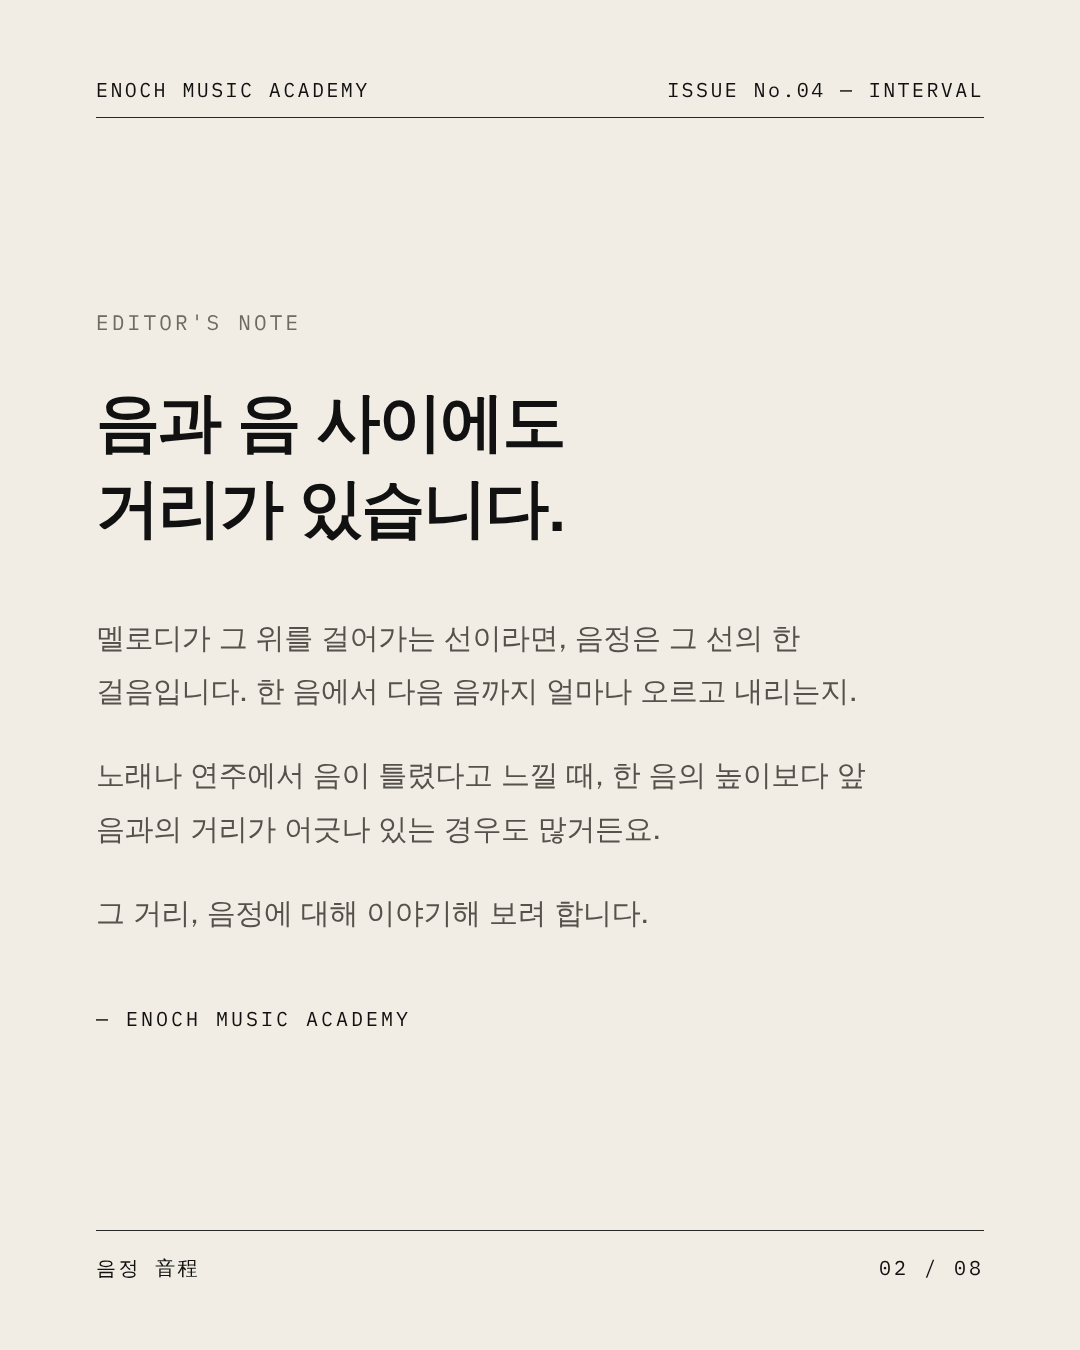
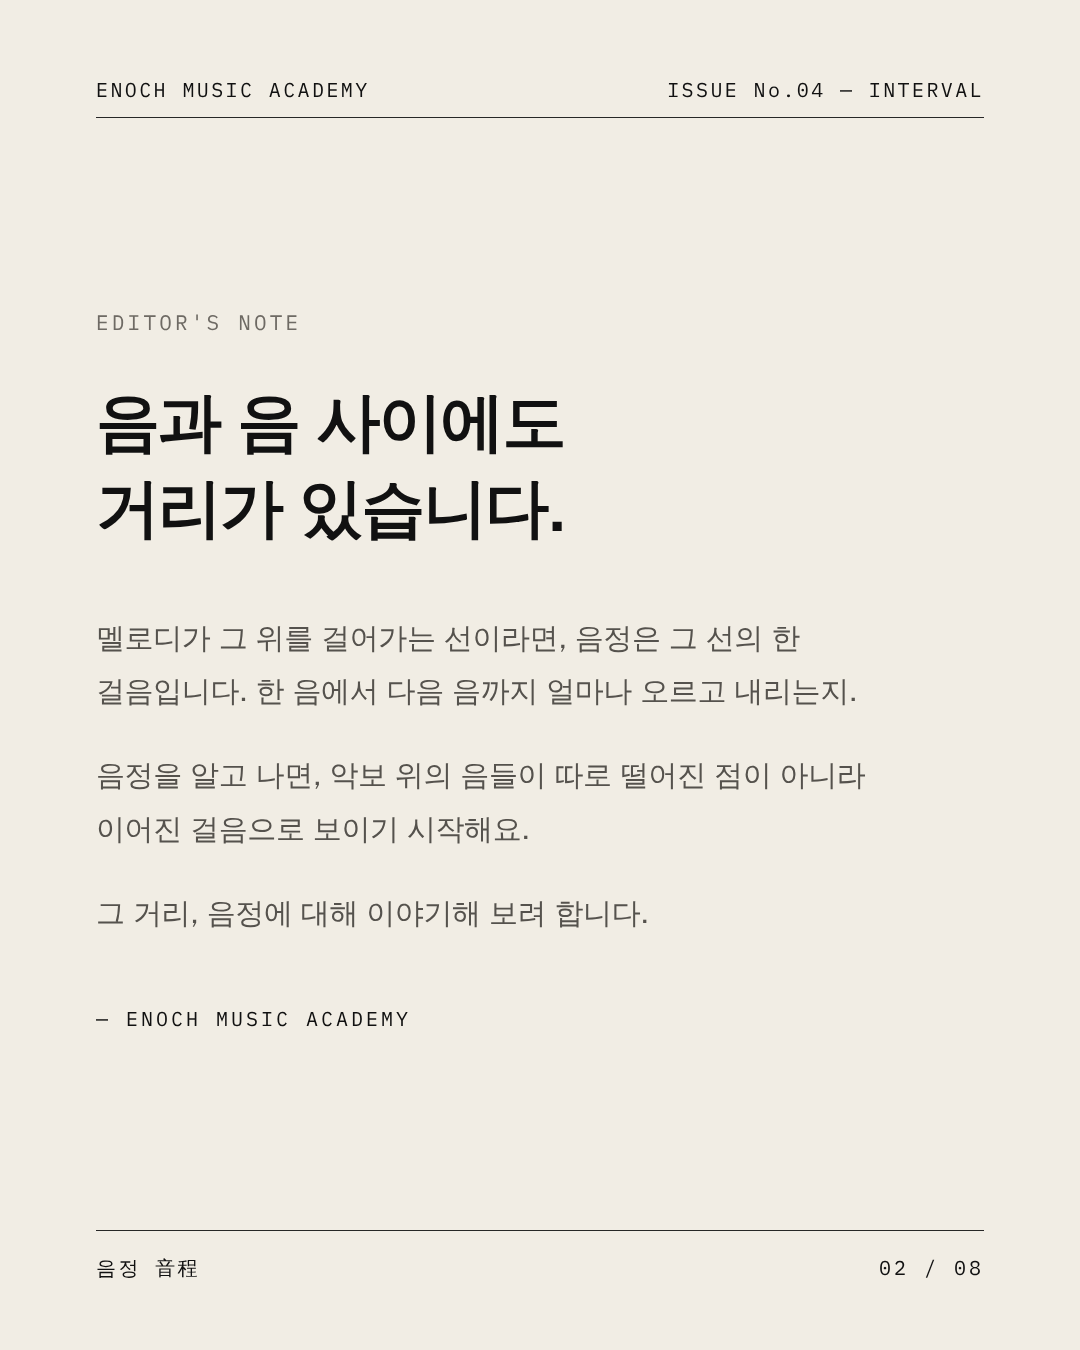
ENOCH ISSUE No.04 음정: 02장 둘째 문단 교체 (캡션도)
Claude-Session: https://claude.ai/code/session_01HGbZvgMeYrbU7mY8bwfjyb

Changed region(s): [[0.0917, 0.56, 0.7944, 0.6222]]

diff --git a/output/ENOCH_ISSUE_04_음정/preview.html b/output/ENOCH_ISSUE_04_음정/preview.html
@@ -266,7 +266,7 @@ body { font-family: var(--ko); word-break: keep-all; -webkit-font-smoothing: ant
 <section class="card layout-note theme-ivory" id="card-2">
     <div class="masthead"><span>ENOCH MUSIC ACADEMY</span><span>ISSUE No.04 — INTERVAL</span></div>
     <div class="kicker">Editor's Note</div><h2 class="title">음과 음 사이에도
-거리가 있습니다.</h2><p class="body">멜로디가 그 위를 걸어가는 선이라면, 음정은 그 선의 한 걸음입니다. 한 음에서 다음 음까지 얼마나 오르고 내리는지.</p><p class="body">노래나 연주에서 음이 틀렸다고 느낄 때, 한 음의 높이보다 앞 음과의 거리가 어긋나 있는 경우도 많거든요.</p><p class="body">그 거리, 음정에 대해 이야기해 보려 합니다.</p>
+거리가 있습니다.</h2><p class="body">멜로디가 그 위를 걸어가는 선이라면, 음정은 그 선의 한 걸음입니다. 한 음에서 다음 음까지 얼마나 오르고 내리는지.</p><p class="body">음정을 알고 나면, 악보 위의 음들이 따로 떨어진 점이 아니라 이어진 걸음으로 보이기 시작해요.</p><p class="body">그 거리, 음정에 대해 이야기해 보려 합니다.</p>
     <div class="sign">— ENOCH MUSIC ACADEMY</div>
     
     

diff --git a/output/ENOCH_ISSUE_04_음정/caption.md b/output/ENOCH_ISSUE_04_음정/caption.md
@@ -1,7 +1,7 @@
 # 캡션 — ENOCH ISSUE No.04 음정
 
 ENOCH ISSUE No.04, 음정.
-음과 음 사이에도 거리가 있습니다. 노래나 연주에서 음이 틀렸다고 느낄 때, 대개는 한 음의 높이보다 앞 음과의 거리가 어긋나 있거든요.
+음과 음 사이에도 거리가 있습니다. 음정을 알고 나면, 악보 위의 음들이 따로 떨어진 점이 아니라 이어진 걸음으로 보이기 시작해요.
 
 음정을 읽는 세 가지(거리 · 성질 · 방향)와 집에서 건반 앱 하나로 해 보는 거리 재기를 담았습니다. ENOCH은 기본을 건너뛰지 않습니다.
 
